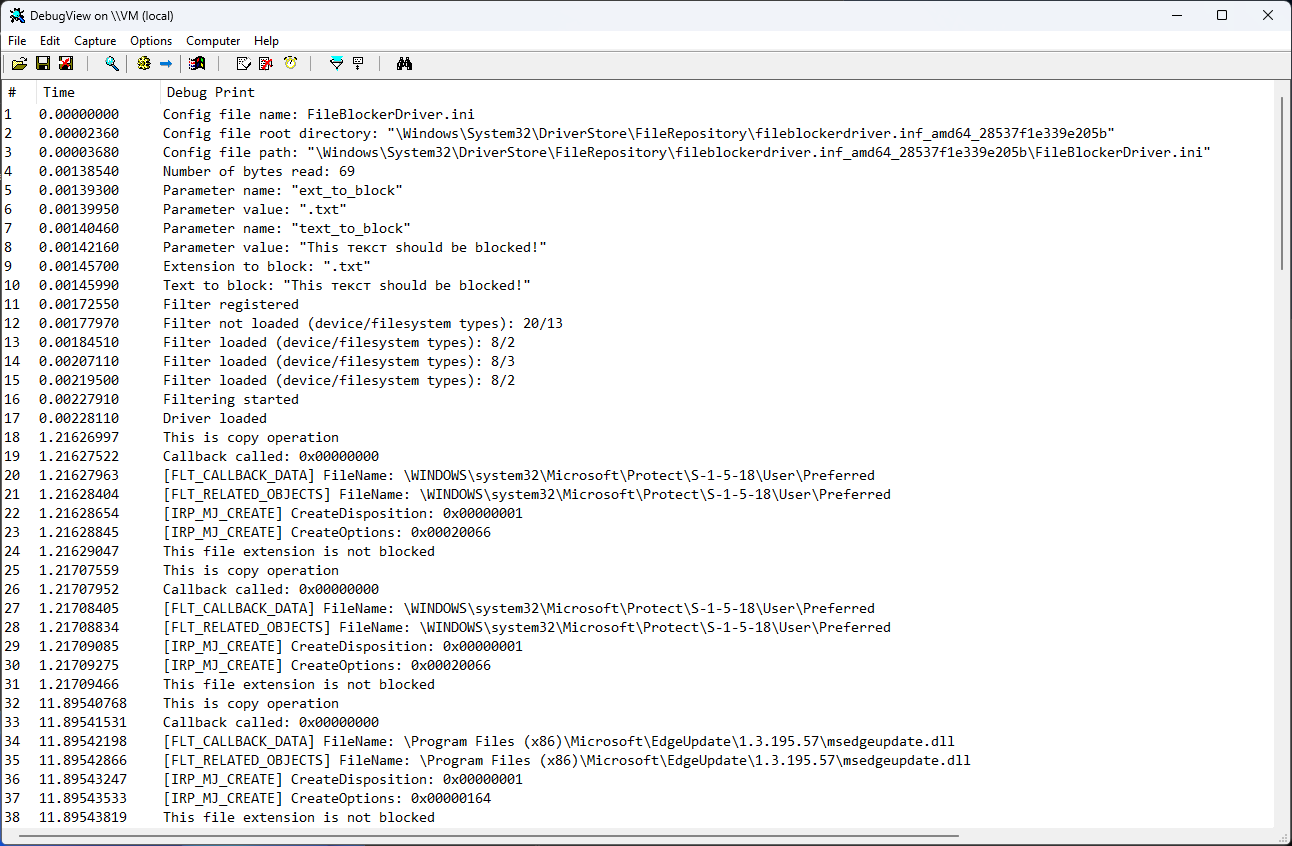
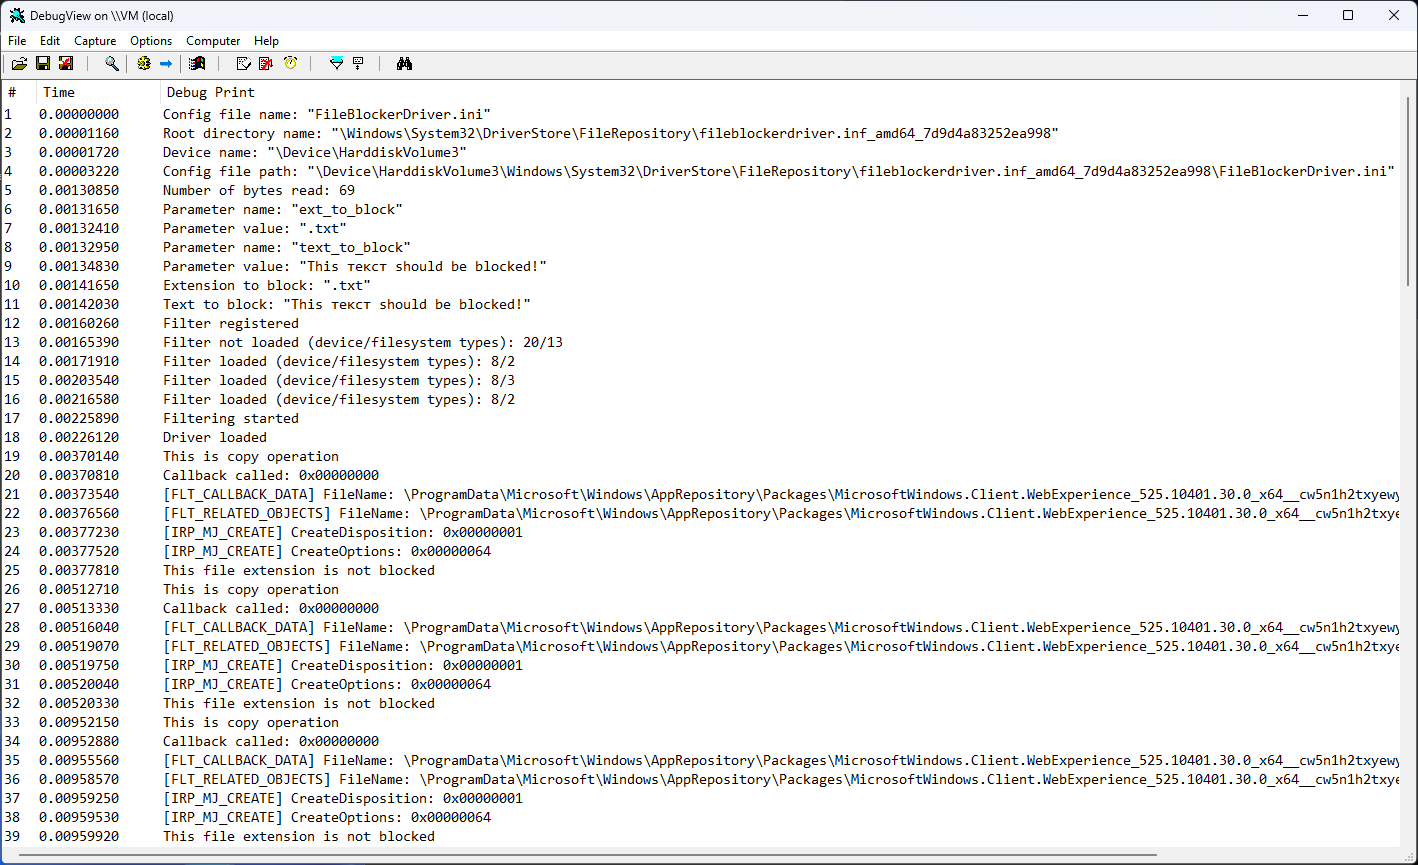
Мелкие правки

diff --git a/FileBlockerDriver/tools.c b/FileBlockerDriver/tools.c
@@ -183,7 +183,7 @@ static BOOLEAN getConfigFileName(_In_ PUNICODE_STRING registry_key_path,
     config_file_name->Length = (USHORT)(value_info->DataLength - sizeof(WCHAR));
     config_file_name->MaximumLength = config_file_name->Length;
 
-    KdPrint(("Config file name: %wZ\n", config_file_name));
+    KdPrint(("Config file name: \"%wZ\"\n", config_file_name));
     return TRUE;
 }
 #endif
@@ -237,6 +237,9 @@ static BOOLEAN getConfigFilePath(_In_ HANDLE root_directory_handle,
         .MaximumLength = (USHORT)(sizeof(buffer) - sizeof(OBJECT_NAME_INFORMATION))
     };
 
+    // Возможно в FILE_OBJECT имя составное и начало имени в поле RelatedFileObject->FileName.
+    // Получить соответсвие символьной ссылки (буквы) имени DEVICE_OBJECT
+    // для диска можно с помощью функции ZwQuerySymbolicLinkObject().
     if (not NT_SUCCESS(status = RtlUnicodeStringCat(&output_string, &root_directory_object->FileName)) or
         not NT_SUCCESS(status = RtlUnicodeStringCatString(&output_string, L"\\")) or
         not NT_SUCCESS(status = RtlUnicodeStringCat(&output_string, config_file_name)))

diff --git a/FileBlockerDriver/driver.c b/FileBlockerDriver/driver.c
@@ -1,4 +1,4 @@
-#include <fltKernel.h>
+#include <FltKernel.h>
 
 #include <iso646.h>
 
